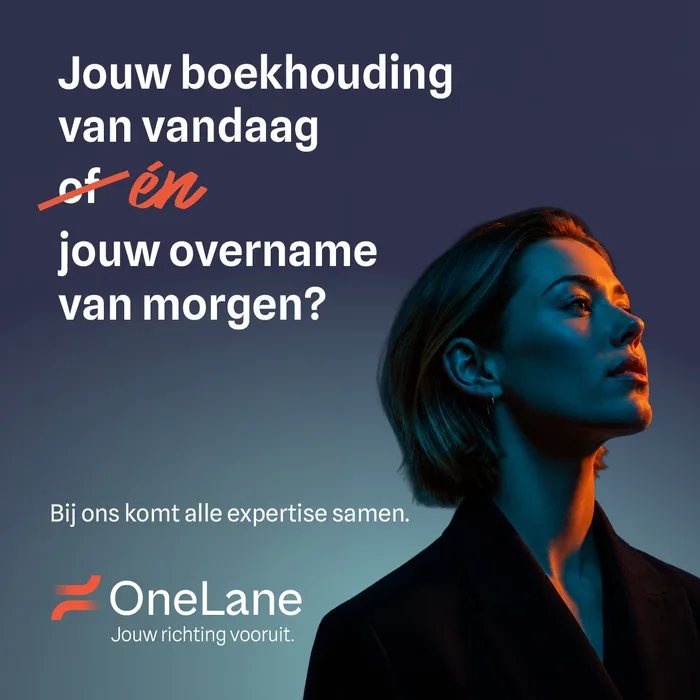
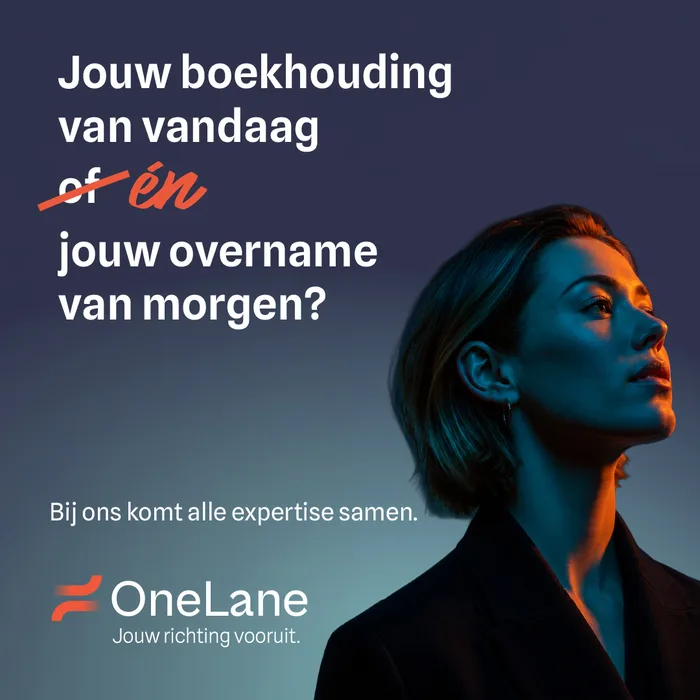
OneLane rapportage: bereik en frequentie per kanaal, projecties naast resultaten, herverdeling budget
Claude-Session: https://claude.ai/code/session_016WVi9HJ1QaVvUTXiEGrWUY

diff --git a/public/werk/onelane/2026/campagne/dashboard/rapportage/index.html b/public/werk/onelane/2026/campagne/dashboard/rapportage/index.html
@@ -35,6 +35,12 @@ th{text-align:left;font-family:'IBM Plex Mono',monospace;font-weight:400;font-si
 td{padding:7px 8px;white-space:nowrap;border-top:1px solid var(--inset)}
 tbody tr:first-child td{border-top:none}
 td:first-child{font-weight:500}
+.k{font-family:'IBM Plex Mono',monospace;font-size:9.5px;letter-spacing:.06em;text-transform:uppercase;color:var(--dim);font-weight:400!important}
+tr.proj td{color:var(--mist);border-top:none;padding-top:2px}
+tr.proj td.k{color:var(--dim)}
+tbody tr.res td{border-top:1px solid var(--inset)}
+td[rowspan]{vertical-align:top;font-weight:500}
+tfoot tr.proj td{border-top:none;font-weight:400;padding-top:2px}
 .num{text-align:right}
 tfoot td{border-top:1px solid var(--stroke);font-weight:700;padding-top:9px}
 .note{font-size:11.5px;color:var(--mist);margin-top:10px}
@@ -55,44 +61,53 @@ tfoot td{border-top:1px solid var(--stroke);font-weight:700;padding-top:9px}
 
 <div class="card sec">
 <h2>Samenvatting</h2>
-<p>In de eerste 15 dagen is €&nbsp;11.345 van het totale budget van €&nbsp;34.215 ingezet (33%), goed voor ruim 2,3 miljoen contacten tegen een gemiddelde CPM van €&nbsp;4,85. Radio heeft de eerste flight afgerond (27 spots, 19,0 GRP) en out of home loopt volgens inkoop. Online liggen de kosten per contact ruim onder de projectie, maar Meta en LinkedIn besteden achter op schema en Spotify is pas op 17 oktober gestart. Op onelane.nl kwamen in deze periode 1.952 sessies binnen, ruim drie keer zoveel per dag als in de twee weken voor de rebranding.</p>
+<p>In de eerste 15 dagen is €&nbsp;11.346 van het totale budget van €&nbsp;35.215 ingezet (32%), goed voor ruim 2,3 miljoen contacten en een opgeteld bereik van ruim 900 duizend personen tegen een gemiddelde CPM van €&nbsp;4,85. Radio heeft de eerste flight afgerond (27 spots, 19,0 GRP) en out of home loopt volgens inkoop. Online liggen de kosten per bereikte persoon ruim onder de projectie en heeft Meta het geplande campagnebereik al overschreden, maar Meta en LinkedIn besteden achter op schema en Spotify is pas op 17 oktober gestart. Op onelane.nl kwamen in deze periode 1.952 sessies binnen, ruim drie keer zoveel per dag als in de twee weken voor de rebranding.</p>
 </div>
 
 <div class="card sec">
 <h2>Resultaten</h2>
 <div class="tw"><table>
-<thead><tr><th>Kanaal</th><th class="num">Besteed</th><th class="num">Bereik</th><th class="num">Frequentie</th><th class="num">Impressies</th><th class="num">CPM</th><th class="num">CPC</th></tr></thead>
+<thead><tr><th>Kanaal</th><th></th><th class="num">Besteed / budget</th><th class="num">Bereik</th><th class="num">Frequentie</th><th class="num">Impressies</th><th class="num">CPM</th><th class="num">CPC</th></tr></thead>
 <tbody>
-<tr><td>Out of home</td><td class="num mono">€&nbsp;3.571</td><td class="num mono">142.857</td><td class="num mono">3,5</td><td class="num mono">500.000</td><td class="num mono">€&nbsp;7,14</td><td class="num mono">−</td></tr>
-<tr><td>Radio</td><td class="num mono">€&nbsp;5.048</td><td class="num mono">316.000</td><td class="num mono">3,09</td><td class="num mono">975.282</td><td class="num mono">€&nbsp;5,18</td><td class="num mono">−</td></tr>
-<tr><td>Meta</td><td class="num mono">€&nbsp;1.366</td><td class="num mono">−</td><td class="num mono">−</td><td class="num mono">672.144</td><td class="num mono">€&nbsp;2,03</td><td class="num mono">€&nbsp;1,32</td></tr>
-<tr><td>LinkedIn</td><td class="num mono">€&nbsp;683</td><td class="num mono">−</td><td class="num mono">−</td><td class="num mono">58.770</td><td class="num mono">€&nbsp;11,63</td><td class="num mono">€&nbsp;3,88</td></tr>
-<tr><td>YouTube</td><td class="num mono">€&nbsp;535</td><td class="num mono">−</td><td class="num mono">−</td><td class="num mono">91.895</td><td class="num mono">€&nbsp;5,83</td><td class="num mono">€&nbsp;24,34</td></tr>
-<tr><td>Spotify</td><td class="num mono">€&nbsp;141</td><td class="num mono">−</td><td class="num mono">−</td><td class="num mono">41.001</td><td class="num mono">€&nbsp;3,43</td><td class="num mono">€&nbsp;1,33</td></tr>
+<tr class="res"><td rowspan="2">Out of home</td><td class="k">Resultaat</td><td class="num mono">€&nbsp;3.571</td><td class="num mono">142.857</td><td class="num mono">3,50</td><td class="num mono">500.000</td><td class="num mono">€&nbsp;7,14</td><td class="num mono">−</td></tr>
+<tr class="proj"><td class="k">Projectie</td><td class="num mono">€&nbsp;10.000</td><td class="num mono">400.000</td><td class="num mono">3,50</td><td class="num mono">1.400.000</td><td class="num mono">€&nbsp;7,14</td><td class="num mono">−</td></tr>
+<tr class="res"><td rowspan="2">Radio</td><td class="k">Resultaat</td><td class="num mono">€&nbsp;5.048</td><td class="num mono">316.000</td><td class="num mono">3,09</td><td class="num mono">975.282</td><td class="num mono">€&nbsp;5,18</td><td class="num mono">−</td></tr>
+<tr class="proj"><td class="k">Projectie</td><td class="num mono">€&nbsp;10.165</td><td class="num mono">611.000</td><td class="num mono">3,10</td><td class="num mono">1.894.100</td><td class="num mono">€&nbsp;5,37</td><td class="num mono">−</td></tr>
+<tr class="res"><td rowspan="2">Meta</td><td class="k">Resultaat</td><td class="num mono">€&nbsp;1.366</td><td class="num mono">320.839</td><td class="num mono">2,09</td><td class="num mono">672.144</td><td class="num mono">€&nbsp;2,03</td><td class="num mono">€&nbsp;1,32</td></tr>
+<tr class="proj"><td class="k">Projectie</td><td class="num mono">€&nbsp;5.525</td><td class="num mono">245.000</td><td class="num mono">3,00</td><td class="num mono">735.000</td><td class="num mono">€&nbsp;7,52</td><td class="num mono">€&nbsp;0,75</td></tr>
+<tr class="res"><td rowspan="2">LinkedIn</td><td class="k">Resultaat</td><td class="num mono">€&nbsp;683</td><td class="num mono">39.627</td><td class="num mono">1,48</td><td class="num mono">58.770</td><td class="num mono">€&nbsp;11,63</td><td class="num mono">€&nbsp;3,88</td></tr>
+<tr class="proj"><td class="k">Projectie</td><td class="num mono">€&nbsp;5.525</td><td class="num mono">60.000</td><td class="num mono">2,75</td><td class="num mono">165.000</td><td class="num mono">€&nbsp;33,48</td><td class="num mono">€&nbsp;6,70</td></tr>
+<tr class="res"><td rowspan="2">YouTube</td><td class="k">Resultaat</td><td class="num mono">€&nbsp;535</td><td class="num mono">67.594</td><td class="num mono">1,36</td><td class="num mono">91.895</td><td class="num mono">€&nbsp;5,83</td><td class="num mono">€&nbsp;24,34</td></tr>
+<tr class="proj"><td class="k">Projectie</td><td class="num mono">€&nbsp;2.000</td><td class="num mono">80.000</td><td class="num mono">2,50</td><td class="num mono">200.000</td><td class="num mono">€&nbsp;10,00</td><td class="num mono">€&nbsp;2,50</td></tr>
+<tr class="res"><td rowspan="2">Spotify</td><td class="k">Resultaat</td><td class="num mono">€&nbsp;141</td><td class="num mono">24.552</td><td class="num mono">1,68</td><td class="num mono">41.175</td><td class="num mono">€&nbsp;3,43</td><td class="num mono">€&nbsp;1,33</td></tr>
+<tr class="proj"><td class="k">Projectie</td><td class="num mono">€&nbsp;2.000</td><td class="num mono">44.000</td><td class="num mono">3,00</td><td class="num mono">132.000</td><td class="num mono">€&nbsp;15,15</td><td class="num mono">€&nbsp;5,05</td></tr>
 </tbody>
-<tfoot><tr><td>Totaal</td><td class="num mono">€&nbsp;11.345</td><td class="num mono">−</td><td class="num mono">−</td><td class="num mono">2.339.092</td><td class="num mono">€&nbsp;4,85</td><td class="num mono">€&nbsp;2,03</td></tr></tfoot>
+<tfoot>
+<tr class="res"><td rowspan="2">Totaal</td><td class="k">Resultaat</td><td class="num mono">€&nbsp;11.346</td><td class="num mono">911.469</td><td class="num mono">2,57</td><td class="num mono">2.339.266</td><td class="num mono">€&nbsp;4,85</td><td class="num mono">€&nbsp;2,03</td></tr>
+<tr class="proj"><td class="k">Projectie</td><td class="num mono">€&nbsp;35.215</td><td class="num mono">1.440.000</td><td class="num mono">3,14</td><td class="num mono">4.526.100</td><td class="num mono">€&nbsp;7,78</td><td class="num mono">€&nbsp;1,61</td></tr>
+</tfoot>
 </table></div>
-<div class="note">Out of home naar rato van de looptijd en radio flight 1, beide op basis van inkoop. Voor de online kanalen is geen ontdubbeld bereik beschikbaar.</div>
+<div class="note">Projectie voor de volledige campagne (5 oktober t/m 15 november). Out of home naar rato van de looptijd en radio flight 1, op basis van inkoop. Totaal bereik is per kanaal opgeteld.</div>
 </div>
 
 <div class="card sec">
 <h2>Vergelijking</h2>
 <div class="cmp">
-<div><h3>Kanalen</h3><p>Gemeten tegen hun eigen projectie zijn alle online kanalen goedkoper dan verwacht (CPM Meta −73%, LinkedIn −65%, YouTube −42%, Spotify −77%), dus het verschil tussen kanalen zit niet in de prijs maar in de rol: Meta Traffic brengt de websitebezoekers (330 landingspaginaweergaven à €&nbsp;0,49), YouTube de aandacht (90% van de vertoningen wordt een weergave) en LinkedIn de zakelijke beslisser. Het knelpunt is levering: LinkedIn besteedt een derde en Meta circa 70% van het geplande tempo, terwijl Spotify pas sinds 17 oktober loopt.</p></div>
-<div><h3>Creatives</h3><p>Op LinkedIn haalt video een CTR van 0,31% en een CPC van €&nbsp;2,95 tegen 0,15% en circa €&nbsp;30 voor statisch beeld, al draaien de beeldadvertenties alleen in remarketing, zodat vorm en doelgroep hier samenvallen. Binnen video scoort de 20 seconden-video het best (CTR tot 0,75%), terwijl de 6 seconden Tag On-varianten achterblijven (0,11 tot 0,45%).</p></div>
-<div><h3>Doelgroepen</h3><p>Remarketing levert nog weinig op doordat de bezoekersgroep klein is: de LinkedIn-remarketingset draait op een CPM van €&nbsp;46,65 met 6 websitebezoeken, tegen €&nbsp;9,13 voor de videoset buiten remarketing. Op YouTube kijkt de interessedoelgroep vaker de video (93% weergaven per vertoning) dan remarketing (76%), tegen een vrijwel gelijke CPM van circa €&nbsp;5,85.</p></div>
+<div><h3>Kanalen</h3><p>Elk online kanaal ligt voor op zijn eigen bereikprojectie: Meta heeft met 321 duizend personen het geplande campagnebereik al overschreden, YouTube staat op 84%, LinkedIn op 66% en Spotify na drie dagen op 56%, tegen kosten per duizend bereikte personen die 68 tot 87% onder de projectie liggen. Het verschil zit in de herhaling: Meta bouwt met een frequentie van 2,1 breed bereik op en radio en out of home leveren ruim drie contacten per persoon, terwijl LinkedIn met 1,48 ver onder de geplande 2,75 blijft en de zakelijke doelgroep te weinig herhaling krijgt.</p></div>
+<div><h3>Creatives</h3><p>Statisch beeld levert de klikken: op Meta haalt versie 2 een CTR van 2,9% en een websitebezoek voor €&nbsp;0,46, tegen 2,2% en €&nbsp;0,58 voor versie 1, terwijl de 20 seconden-video vooral aandacht oplevert (19.939 weergaven à €&nbsp;0,015). De 6 seconden Tag On blijft op beide kanalen het zwakst (CTR 0,03% op Meta, 0,11 tot 0,45% op LinkedIn), en op LinkedIn scoort video beter dan statisch (CTR 0,31% tegen 0,15%), al draaien de statics daar alleen in remarketing.</p></div>
+<div><h3>Doelgroepen</h3><p>Op Meta bekijkt de bestaande achterban (websitebezoekers en volgers) de video vijf keer zo vaak als de lookalikes (6,8% tegen 1,4% van de vertoningen), terwijl de lookalikes vaker klikken (CTR 0,10% tegen 0,03%) en met een frequentie van 2,1 het meeste bereik opbouwen. De LinkedIn-remarketinggroep is nog te klein om efficiënt te leveren (CPM €&nbsp;46,65 tegen €&nbsp;9,13 voor de videoset) en op YouTube kijkt de interessedoelgroep vaker de video dan remarketing (93% tegen 76% weergaven per vertoning) bij een vrijwel gelijke CPM.</p></div>
 </div>
 <div class="vis">
-<figure><div class="im"><img src="beeld/statisch-v1.webp" alt="LinkedIn statisch, versie 1" loading="lazy"></div><figcaption>Statisch, versie 1<span>CTR 0,15% · CPC ±€&nbsp;30</span></figcaption></figure>
-<figure><div class="im"><img src="beeld/statisch-v2.webp" alt="LinkedIn statisch, versie 2" loading="lazy"></div><figcaption>Statisch, versie 2<span>CTR 0,15% · CPC ±€&nbsp;30</span></figcaption></figure>
-<figure><div class="im"><img class="v" src="beeld/video-20s.webp" alt="Video 20 seconden" loading="lazy"></div><figcaption>Video, 20 sec<span>CTR 0,21–0,75% · CPC €&nbsp;1,38–4,82</span></figcaption></figure>
-<figure><div class="im"><img class="v" src="beeld/tagon-6s.webp" alt="Tag On 6 seconden" loading="lazy"></div><figcaption>Tag On, 6 sec<span>CTR 0,11–0,45% · CPC €&nbsp;2,76–9,05</span></figcaption></figure>
+<figure><div class="im"><img src="beeld/statisch-v1.webp" alt="Statisch, versie 1" loading="lazy"></div><figcaption>Statisch, versie 1<span>Meta · CTR 2,23% · €&nbsp;0,58 per bezoek</span></figcaption></figure>
+<figure><div class="im"><img src="beeld/statisch-v2.webp" alt="Statisch, versie 2" loading="lazy"></div><figcaption>Statisch, versie 2<span>Meta · CTR 2,93% · €&nbsp;0,46 per bezoek</span></figcaption></figure>
+<figure><div class="im"><img class="v" src="beeld/video-20s.webp" alt="Video 20 seconden" loading="lazy"></div><figcaption>Video, 20 sec<span>Meta · €&nbsp;0,015 per weergave</span><span>LinkedIn · CTR 0,21–0,75%</span></figcaption></figure>
+<figure><div class="im"><img class="v" src="beeld/tagon-6s.webp" alt="Tag On 6 seconden" loading="lazy"></div><figcaption>Tag On, 6 sec<span>Meta · CTR 0,03%</span><span>LinkedIn · CTR 0,11–0,45%</span></figcaption></figure>
 </div>
 </div>
 
 <div class="card sec">
-<h2>Advies budgetverdeling</h2>
-<p>Verschuif €&nbsp;2.000 van het LinkedIn-budget naar Meta, verdeeld over Traffic en Video views, omdat LinkedIn in het huidige tempo nog maar circa €&nbsp;1.200 van de resterende €&nbsp;4.840 uitgeeft. Vervang daarnaast de drie beeldadvertenties in de LinkedIn-remarketingset door de 20 seconden-video, zodat ook in remarketing het sterkste format draait.</p>
+<h2>Herverdeling budget</h2>
+<p>Er is €&nbsp;1.000 van het LinkedIn-budget verschoven naar Meta, verdeeld over Traffic en Video views, omdat Meta Traffic de goedkoopste websitebezoeken levert. Op LinkedIn is de doelgroep iets verbreed, zodat het resterende budget van €&nbsp;3.842 sneller wordt uitgeleverd.</p>
 </div>
 </div>
 <script>
